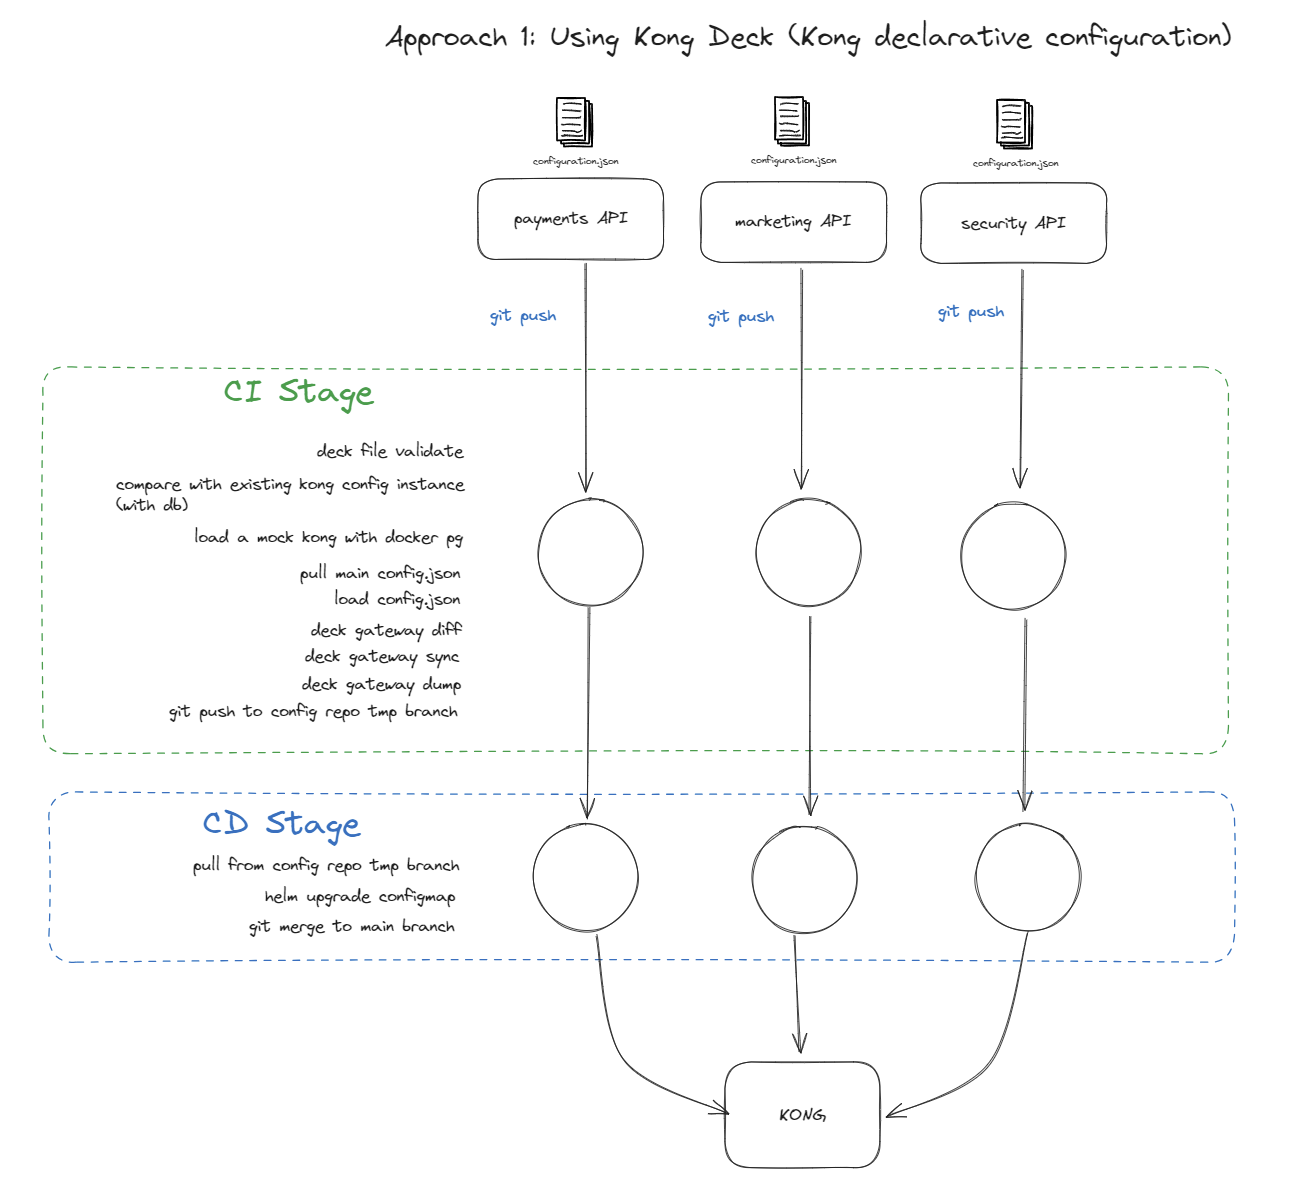
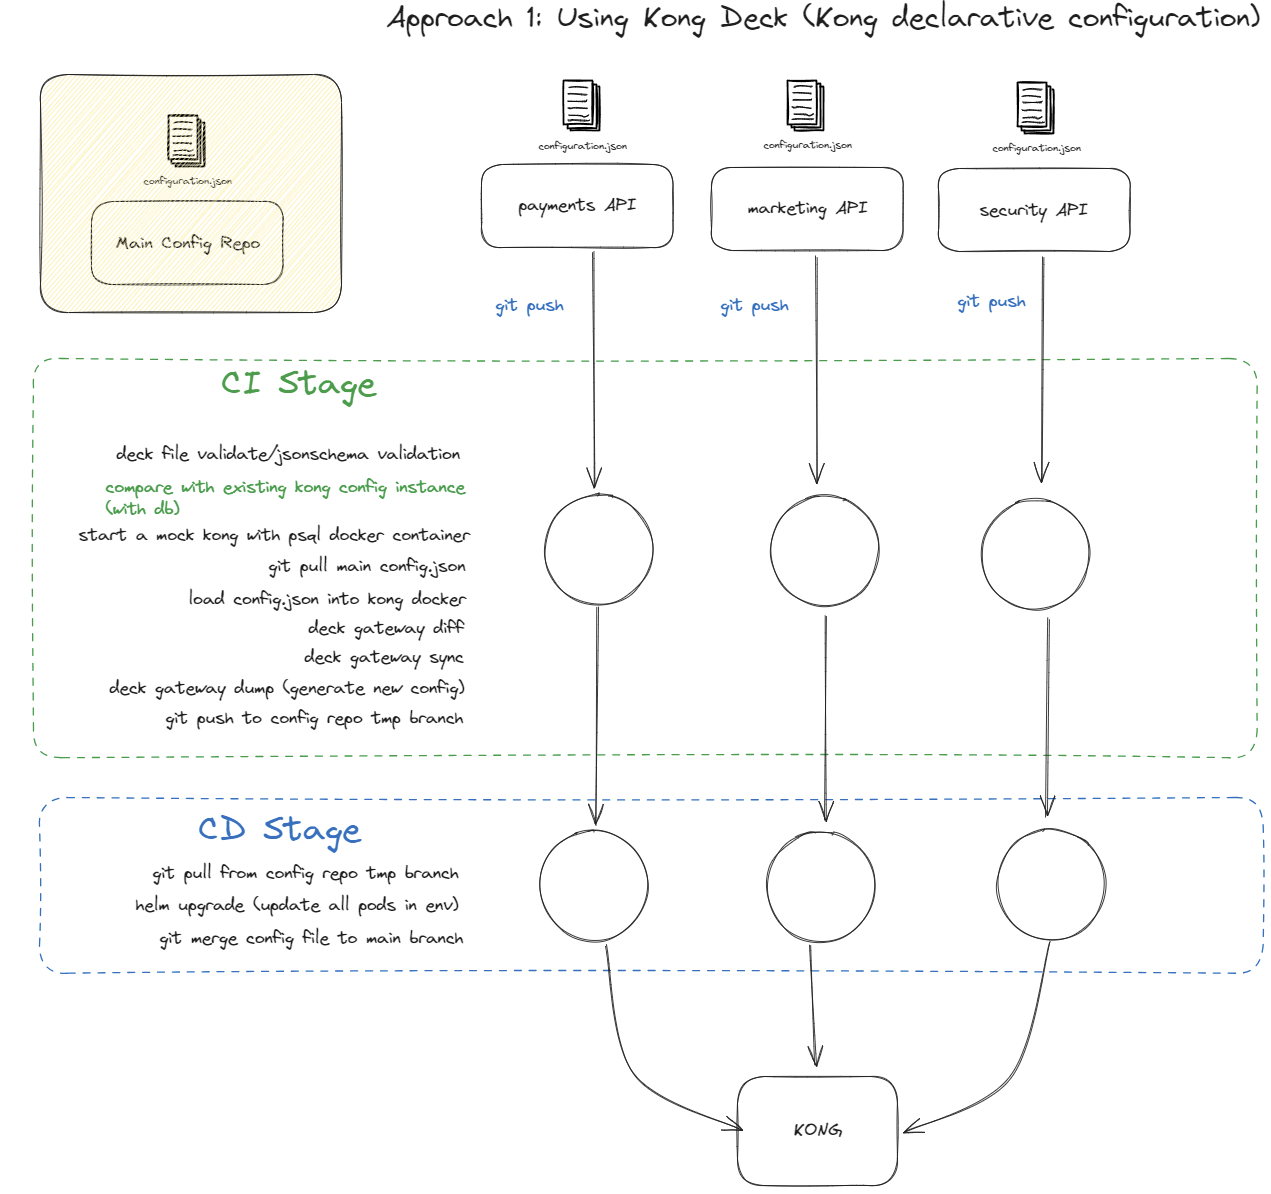
added more documentation on how to manage decalrative config filie

diff --git a/managing-config-file.md b/managing-config-file.md
@@ -14,8 +14,70 @@ In the case of many services, managing everything in 1 file is unreliable and un
 - Fault Tolerance:
   - File should be regularly backed up, or versioned, so rollback or restore from backup is possible.
 
-## Method 1: Kong deck to compare file
+## Method 1: Kong deck to compare file to test kong container, then dump config file, and upload to kong pods
 
 ![approach-1](./kong-deck-demo/kong-deploy.png)
 
-## Method 2
+- Use `kong deck` as a CLI tool to help manage configuration
+- It is not fully compatible with kong dbless (not able to sync), but there is a workaround we can do.
+- Also provides drift detection, can help sync changes
+- Also feature with open api spec to kong specification, able to help with APIOPs
+
+- Essential commands:
+  - `deck file validate` - validate the deck configuration state file.
+  - `deck gateway diff` - check the diff with existing kong instance.
+  - `deck gateway sync` - sync the diff with existing kong instance.
+  - `deck gateway dump` - dump existing kong configuration to file. (generate new config)
+
+## Method 2: Gitops approach self-written merging approach
+
+Link to medium article: <https://surenraju.medium.com/gitop-approch-to-configuration-management-in-kong-dbless-mode-bf0f9fc0a68e>
+
+- Provide some sort of json schema to validate the configuration (validate at both merged, and individual configuration files)
+
+- Split declaration into multiple files
+- `global` file, globally declared plugins:
+
+```yaml
+plugins:
+ - name: jwt
+   config:
+     header_names: "my-header"
+```
+
+- `service` file, per-service API route configuration defined in a seperate yaml file.
+
+```yaml
+- name: my-route
+   paths:
+   - /my-route
+   methods:
+   - GET
+   plugins:
+   - name: cors
+     config:
+       origins:
+       - example.com
+```
+
+- `master` file, merged configuration
+
+```yaml
+services:
+ - name: my-service
+   url: https://example.com
+   routes:
+     - name: my-route
+     paths:
+     - /my-route
+     methods:
+     - GET
+ plugins:
+ - name: jwt
+   config:
+     header_names: "my-header"
+ - name: cors
+   config:
+     origins:
+     - example.com
+```

diff --git a/kong-deck-demo/singlefile/README.md b/kong-deck-demo/singlefile/README.md
@@ -38,5 +38,7 @@ curl http://localhost:8001/routes | jq .data
 # find the difference
 deck diff
 
+# load a new file in
+# drift dectection
 
 ```
